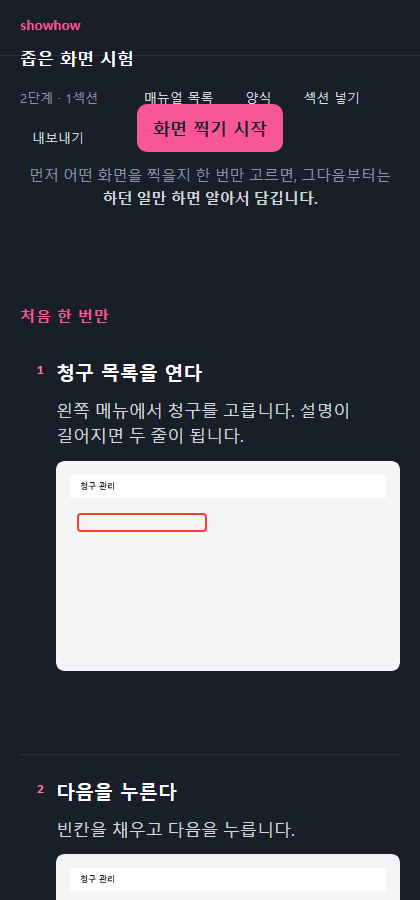
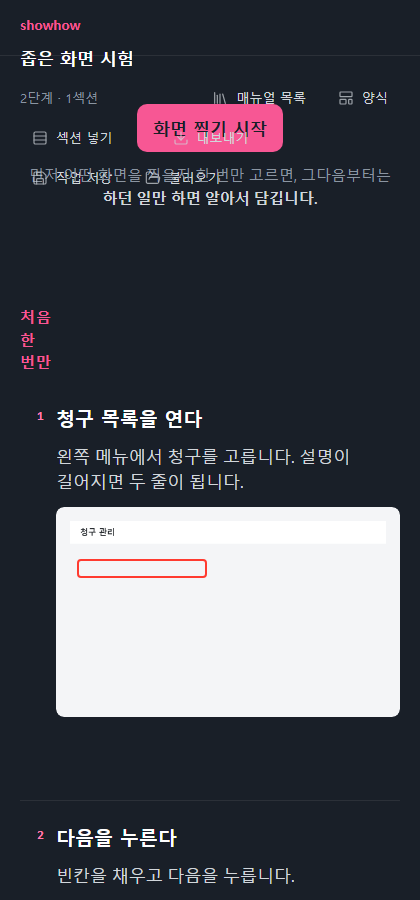
아이콘을 넣었다 — 새로 그리지 않고 가져왔다
lucide (ISC) 2,034개 중 38개만 골라 파일 안에 넣었다. 4.8KB.
우리 디자인 시스템이 선 아이콘(fill none · stroke-width 1.8)이라 결이 같다.

- 위쪽 단추 여섯 · 단계 손질 일곱 · 표시 도구 일곱 · 내보내기 여섯
- 아이콘이 붙어 도구줄이 두 줄로 밀렸다 → 시스템 .btn-sm(32px)으로 조이고,
  되돌리기·전부 지우기는 아이콘만 남겼다(뜻이 통하는 둘)
- 아이콘은 글자보다 흐리다(0.72) — 글자가 먼저 읽혀야 한다

3px 미세 조정을 넣었다가 검사에 걸려 세로 가운데 정렬로 바꿨다.
격자 밖 값을 못 쓰게 한 검사가 실제로 일했다.

diff --git a/index.html b/index.html
@@ -503,6 +503,14 @@
   #docname:hover { background: var(--colors-state-hover); }
   #docname:focus { background: var(--colors-state-hover); outline: 2px solid var(--colors-state-focused); outline-offset: 0; }
   #top .hint { color: var(--colors-label-assistive); font: var(--typography-7-regular); }
+  /* 아이콘은 글자 옆에 서고, 글자보다 흐리다 — 글자가 먼저 읽혀야 한다 */
+  .ico { flex: 0 0 auto; opacity: .72; }
+  button:hover .ico, button.on .ico { opacity: 1; }
+  .tbtn, .srow button, .sec button, .tool, #outmenu button, #boxbtns button, #formbtns button {
+    display: inline-flex; align-items: center; gap: var(--spacing-2);
+  }
+  
+  #outmenu .ico { align-self: center; }   /* 격자 밖 미세 조정 대신 세로 가운데로 */
   /* 아직 채울 것이 남았다는 신호. 경고가 아니라 다음 할 일이라 앰버 한 계단 아래로. */
   .warnlink {
     color: var(--colors-label-brand); font: var(--typography-7-medium);
@@ -531,13 +539,15 @@
     padding: var(--spacing-1); width: 304px; text-align: left;
   }
   #outmenu button {
-    display: block; width: 100%; text-align: left;
+    display: flex; align-items: flex-start; gap: var(--spacing-3);
+    width: 100%; text-align: left;
     padding: var(--spacing-2) var(--spacing-3); border-radius: var(--radius-sm);
     color: var(--colors-label-normal);
     transition: background var(--뜸) var(--결);
   }
   #outmenu button:hover { background: var(--colors-state-hover); }
   #outmenu b { display: block; font: var(--typography-6-medium); color: inherit; }
+  #outmenu span { min-width: 0; }
   #outmenu i {
     display: block; font-style: normal; margin-top: var(--spacing-1);
     font: var(--typography-caption-1-regular); color: var(--colors-label-assistive);
@@ -783,9 +793,15 @@
     border-radius: var(--radius-full); padding: var(--spacing-2) var(--spacing-5);
   }
   #mark-done:hover { background: var(--colors-primary-strong); color: var(--colors-label-inverse); }
+  /* 시스템 .btn-sm — 아이콘이 붙어 넓어졌으니 한 줄에 서게 조인다 */
   .tool {
-    color: var(--colors-label-neutral); font-size: var(--typography-6-size); padding: var(--spacing-2) var(--spacing-4); border-radius: var(--radius-md);
+    height: 32px; padding: 0 var(--spacing-3); border-radius: var(--radius-sm);
+    font: var(--typography-7-medium); color: var(--colors-label-neutral);
+    gap: var(--spacing-1);
   }
+  /* 아이콘만으로 뜻이 통하는 둘은 글자를 뺀다 — 줄이 넘치면 그게 더 나쁘다 */
+  .tool.icononly { width: 32px; padding: 0; justify-content: center; }
+  .tool.icononly .ico { opacity: .85; }
   .tool:hover { color: var(--colors-label-normal); background: var(--colors-layered-background); }
   .tool.on { color: var(--colors-label-inverse); background: var(--colors-primary-normal); font-weight: 600; }
   #markwrap { flex: 1; display: grid; place-items: center; padding: 0 var(--spacing-8) var(--spacing-5); min-height: 0; }
@@ -871,24 +887,24 @@
   <input id="docname" value="새 매뉴얼" aria-label="매뉴얼 이름">
   <span class="hint" id="counthint"></span>
   <span class="grow"></span>
-  <button class="tbtn" id="btn-box">매뉴얼 목록</button>
-  <button class="tbtn" id="btn-form">양식</button>
-  <button class="tbtn" id="btn-sec">섹션 넣기</button>
+  <button class="tbtn" id="btn-box"><svg class="ico" width="16" height="16" viewBox="0 0 24 24" fill="none" stroke="currentColor" stroke-width="1.8" stroke-linecap="round" stroke-linejoin="round" aria-hidden="true"><path d="m16 6 4 14" /> <path d="M12 6v14" /> <path d="M8 8v12" /> <path d="M4 4v16" /></svg>매뉴얼 목록</button>
+  <button class="tbtn" id="btn-form"><svg class="ico" width="16" height="16" viewBox="0 0 24 24" fill="none" stroke="currentColor" stroke-width="1.8" stroke-linecap="round" stroke-linejoin="round" aria-hidden="true"><rect width="18" height="7" x="3" y="3" rx="1" /> <rect width="9" height="7" x="3" y="14" rx="1" /> <rect width="5" height="7" x="16" y="14" rx="1" /></svg>양식</button>
+  <button class="tbtn" id="btn-sec"><svg class="ico" width="16" height="16" viewBox="0 0 24 24" fill="none" stroke="currentColor" stroke-width="1.8" stroke-linecap="round" stroke-linejoin="round" aria-hidden="true"><rect width="18" height="18" x="3" y="3" rx="2" /> <path d="M21 9H3" /> <path d="M21 15H3" /></svg>섹션 넣기</button>
   <span class="tgap"></span>
   <span class="menuwrap">
-    <button class="tbtn" id="btn-out" aria-haspopup="true" aria-expanded="false">내보내기</button>
+    <button class="tbtn" id="btn-out" aria-haspopup="true" aria-expanded="false"><svg class="ico" width="16" height="16" viewBox="0 0 24 24" fill="none" stroke="currentColor" stroke-width="1.8" stroke-linecap="round" stroke-linejoin="round" aria-hidden="true"><path d="M12 15V3" /> <path d="M21 15v4a2 2 0 0 1-2 2H5a2 2 0 0 1-2-2v-4" /> <path d="m7 10 5 5 5-5" /></svg>내보내기</button>
     <div id="outmenu" hidden>
-      <button data-out="print"><b>PDF로 저장</b><i>종이로 뽑거나, 어디서나 똑같이 보일 때</i></button>
-      <button data-out="ppt"><b>PPT로 저장</b><i>발표하거나, 받는 사람이 고쳐 쓰게 할 때</i></button>
-      <button data-out="docx"><b>워드로 저장</b><i>사내 문서 양식에 맞춰 이어 쓸 때 (한글에서도 열림)</i></button>
-      <button data-out="html"><b>파일 한 장으로</b><i>두 번 눌러 바로 열게, 프로그램 없이 보낼 때</i></button>
-      <button data-out="imgs"><b>사진 원본만</b><i>다른 문서에 사진만 붙여 넣을 때</i></button>
-      <button data-out="md"><b>글과 그림으로</b><i>위키·깃헙·노션에 옮겨 붙일 때</i></button>
+      <button data-out="print"><svg class="ico" width="18" height="18" viewBox="0 0 24 24" fill="none" stroke="currentColor" stroke-width="1.8" stroke-linecap="round" stroke-linejoin="round" aria-hidden="true"><path d="M6 22a2 2 0 0 1-2-2V4a2 2 0 0 1 2-2h8a2.4 2.4 0 0 1 1.704.706l3.588 3.588A2.4 2.4 0 0 1 20 8v12a2 2 0 0 1-2 2z" /> <path d="M14 2v5a1 1 0 0 0 1 1h5" /> <path d="M10 9H8" /> <path d="M16 13H8" /> <path d="M16 17H8" /></svg><span><b>PDF로 저장</b><i>종이로 뽑거나, 어디서나 똑같이 보일 때</i></span></button>
+      <button data-out="ppt"><svg class="ico" width="18" height="18" viewBox="0 0 24 24" fill="none" stroke="currentColor" stroke-width="1.8" stroke-linecap="round" stroke-linejoin="round" aria-hidden="true"><path d="M2 3h20" /> <path d="M21 3v11a2 2 0 0 1-2 2H5a2 2 0 0 1-2-2V3" /> <path d="m7 21 5-5 5 5" /></svg><span><b>PPT로 저장</b><i>발표하거나, 받는 사람이 고쳐 쓰게 할 때</i></span></button>
+      <button data-out="docx"><svg class="ico" width="18" height="18" viewBox="0 0 24 24" fill="none" stroke="currentColor" stroke-width="1.8" stroke-linecap="round" stroke-linejoin="round" aria-hidden="true"><path d="M12 22h6a2 2 0 0 0 2-2V8a2.4 2.4 0 0 0-.706-1.706l-3.588-3.588A2.4 2.4 0 0 0 14 2H6a2 2 0 0 0-2 2v6" /> <path d="M14 2v5a1 1 0 0 0 1 1h5" /> <path d="M3 16v-1.5a.5.5 0 0 1 .5-.5h7a.5.5 0 0 1 .5.5V16" /> <path d="M6 22h2" /> <path d="M7 14v8" /></svg><span><b>워드로 저장</b><i>사내 문서 양식에 맞춰 이어 쓸 때 (한글에서도 열림)</i></span></button>
+      <button data-out="html"><svg class="ico" width="18" height="18" viewBox="0 0 24 24" fill="none" stroke="currentColor" stroke-width="1.8" stroke-linecap="round" stroke-linejoin="round" aria-hidden="true"><path d="M4 12.15V4a2 2 0 0 1 2-2h8a2.4 2.4 0 0 1 1.706.706l3.588 3.588A2.4 2.4 0 0 1 20 8v12a2 2 0 0 1-2 2h-3.35" /> <path d="M14 2v5a1 1 0 0 0 1 1h5" /> <path d="m5 16-3 3 3 3" /> <path d="m9 22 3-3-3-3" /></svg><span><b>파일 한 장으로</b><i>두 번 눌러 바로 열게, 프로그램 없이 보낼 때</i></span></button>
+      <button data-out="imgs"><svg class="ico" width="18" height="18" viewBox="0 0 24 24" fill="none" stroke="currentColor" stroke-width="1.8" stroke-linecap="round" stroke-linejoin="round" aria-hidden="true"><path d="m22 11-1.296-1.296a2.4 2.4 0 0 0-3.408 0L11 16" /> <path d="M4 8a2 2 0 0 0-2 2v10a2 2 0 0 0 2 2h10a2 2 0 0 0 2-2" /> <circle cx="13" cy="7" r="1" fill="currentColor" /> <rect x="8" y="2" width="14" height="14" rx="2" /></svg><span><b>사진 원본만</b><i>다른 문서에 사진만 붙여 넣을 때</i></span></button>
+      <button data-out="md"><svg class="ico" width="18" height="18" viewBox="0 0 24 24" fill="none" stroke="currentColor" stroke-width="1.8" stroke-linecap="round" stroke-linejoin="round" aria-hidden="true"><line x1="4" x2="20" y1="9" y2="9" /> <line x1="4" x2="20" y1="15" y2="15" /> <line x1="10" x2="8" y1="3" y2="21" /> <line x1="16" x2="14" y1="3" y2="21" /></svg><span><b>글과 그림으로</b><i>위키·깃헙·노션에 옮겨 붙일 때</i></span></button>
     </div>
   </span>
   <span class="tgap"></span>
-  <button class="tbtn" id="btn-save">작업 저장</button>
-  <button class="tbtn" id="btn-open">불러오기</button>
+  <button class="tbtn" id="btn-save"><svg class="ico" width="16" height="16" viewBox="0 0 24 24" fill="none" stroke="currentColor" stroke-width="1.8" stroke-linecap="round" stroke-linejoin="round" aria-hidden="true"><path d="M15.2 3a2 2 0 0 1 1.4.6l3.8 3.8a2 2 0 0 1 .6 1.4V19a2 2 0 0 1-2 2H5a2 2 0 0 1-2-2V5a2 2 0 0 1 2-2z" /> <path d="M17 21v-7a1 1 0 0 0-1-1H8a1 1 0 0 0-1 1v7" /> <path d="M7 3v4a1 1 0 0 0 1 1h7" /></svg>작업 저장</button>
+  <button class="tbtn" id="btn-open"><svg class="ico" width="16" height="16" viewBox="0 0 24 24" fill="none" stroke="currentColor" stroke-width="1.8" stroke-linecap="round" stroke-linejoin="round" aria-hidden="true"><path d="m6 14 1.5-2.9A2 2 0 0 1 9.24 10H20a2 2 0 0 1 1.94 2.5l-1.54 6a2 2 0 0 1-1.95 1.5H4a2 2 0 0 1-2-2V5a2 2 0 0 1 2-2h3.9a2 2 0 0 1 1.69.9l.81 1.2a2 2 0 0 0 1.67.9H18a2 2 0 0 1 2 2v2" /></svg>불러오기</button>
 </div>
 
 <div id="cover">
@@ -991,20 +1007,20 @@
 
 <div id="mark">
   <div id="marktop">
-    <button class="tool" data-tool="box">상자</button>
-    <button class="tool" data-tool="arrow">화살표</button>
-    <button class="tool" data-tool="badge">번호</button>
-    <button class="tool" data-tool="blur">가리기</button>
-    <button class="tool" data-tool="text">글자</button>
-    <button class="tool" data-tool="crop">자르기</button>
-    <button class="tool" data-tool="erase">지우개</button>
+    <button class="tool" data-tool="box"><svg class="ico" width="15" height="15" viewBox="0 0 24 24" fill="none" stroke="currentColor" stroke-width="1.8" stroke-linecap="round" stroke-linejoin="round" aria-hidden="true"><rect width="18" height="18" x="3" y="3" rx="2" /></svg>상자</button>
+    <button class="tool" data-tool="arrow"><svg class="ico" width="15" height="15" viewBox="0 0 24 24" fill="none" stroke="currentColor" stroke-width="1.8" stroke-linecap="round" stroke-linejoin="round" aria-hidden="true"><path d="M13 5H19V11" /> <path d="M19 5L5 19" /></svg>화살표</button>
+    <button class="tool" data-tool="badge"><svg class="ico" width="15" height="15" viewBox="0 0 24 24" fill="none" stroke="currentColor" stroke-width="1.8" stroke-linecap="round" stroke-linejoin="round" aria-hidden="true"><circle cx="12" cy="12" r="10" /> <circle cx="12" cy="12" r="1" /></svg>번호</button>
+    <button class="tool" data-tool="blur"><svg class="ico" width="15" height="15" viewBox="0 0 24 24" fill="none" stroke="currentColor" stroke-width="1.8" stroke-linecap="round" stroke-linejoin="round" aria-hidden="true"><rect width="18" height="18" x="3" y="3" rx="2" /> <line x1="9" x2="15" y1="15" y2="9" /></svg>가리기</button>
+    <button class="tool" data-tool="text"><svg class="ico" width="15" height="15" viewBox="0 0 24 24" fill="none" stroke="currentColor" stroke-width="1.8" stroke-linecap="round" stroke-linejoin="round" aria-hidden="true"><path d="M12 4v16" /> <path d="M4 7V5a1 1 0 0 1 1-1h14a1 1 0 0 1 1 1v2" /> <path d="M9 20h6" /></svg>글자</button>
+    <button class="tool" data-tool="crop"><svg class="ico" width="15" height="15" viewBox="0 0 24 24" fill="none" stroke="currentColor" stroke-width="1.8" stroke-linecap="round" stroke-linejoin="round" aria-hidden="true"><path d="M6 2v14a2 2 0 0 0 2 2h14" /> <path d="M18 22V8a2 2 0 0 0-2-2H2" /></svg>자르기</button>
+    <button class="tool" data-tool="erase"><svg class="ico" width="15" height="15" viewBox="0 0 24 24" fill="none" stroke="currentColor" stroke-width="1.8" stroke-linecap="round" stroke-linejoin="round" aria-hidden="true"><path d="M21 21H8a2 2 0 0 1-1.42-.587l-3.994-3.999a2 2 0 0 1 0-2.828l10-10a2 2 0 0 1 2.829 0l5.999 6a2 2 0 0 1 0 2.828L12.834 21" /> <path d="m5.082 11.09 8.828 8.828" /></svg>지우개</button>
     <span class="mgap"></span>
     <span id="markcolors" role="group" aria-label="색"></span>
     <button class="tool" id="mark-thin" title="선 굵기">굵기 보통</button>
     <span class="grow"></span>
-    <button class="tool" id="mark-undo">되돌리기</button>
-    <button class="tool" id="mark-clear">전부 지우기</button>
-    <button class="tool" id="mark-done">다 했어요</button>
+    <button class="tool icononly" id="mark-undo" title="되돌리기" aria-label="되돌리기"><svg class="ico" width="15" height="15" viewBox="0 0 24 24" fill="none" stroke="currentColor" stroke-width="1.8" stroke-linecap="round" stroke-linejoin="round" aria-hidden="true"><path d="M9 14 4 9l5-5" /> <path d="M4 9h10.5a5.5 5.5 0 0 1 5.5 5.5a5.5 5.5 0 0 1-5.5 5.5H11" /></svg></button>
+    <button class="tool icononly" id="mark-clear" title="전부 지우기" aria-label="전부 지우기"><svg class="ico" width="15" height="15" viewBox="0 0 24 24" fill="none" stroke="currentColor" stroke-width="1.8" stroke-linecap="round" stroke-linejoin="round" aria-hidden="true"><path d="M18 6 6 18" /> <path d="m6 6 12 12" /></svg></button>
+    <button class="tool" id="mark-done"><svg class="ico" width="16" height="16" viewBox="0 0 24 24" fill="none" stroke="currentColor" stroke-width="1.8" stroke-linecap="round" stroke-linejoin="round" aria-hidden="true"><path d="M20 6 9 17l-5-5" /></svg>다 했어요</button>
   </div>
   <div id="markhint">사진 위에서 끌면 그려집니다. 번호는 누른 자리에 붙습니다.</div>
   <div id="markwrap"><canvas id="markcv"></canvas></div>
@@ -1404,8 +1420,10 @@ function render() {
       h.draggable = true;
       h.innerHTML =
         '<div class="sectitle" contenteditable="plaintext-only" data-ph="섹션 이름 (예: 처음 설정하기)"></div>' +
-        '<button data-act="skip" class="' + (s.off ? 'off' : '') + '">' + (s.off ? '다시 넣기' : '이번엔 빼기') + '</button>' +
-        '<button data-act="up">위로</button><button data-act="down">아래로</button><button data-act="del">삭제</button>';
+        '<button data-act="skip" class="' + (s.off ? 'off' : '') + '">' + (s.off ? 아이콘("넣기", 15) + '다시 넣기' : 아이콘("빼기", 15) + '이번엔 빼기') + '</button>' +
+        '<button data-act="up">' + 아이콘("위로", 15) + '위로</button>' +
+        '<button data-act="down">' + 아이콘("아래로", 15) + '아래로</button>' +
+        '<button data-act="del">' + 아이콘("삭제", 15) + '삭제</button>';
       const ti = h.querySelector(".sectitle");
       ti.textContent = s.title; setPh(ti);
       ti.addEventListener("input", () => { s.title = ti.textContent; setPh(ti); save(); });
@@ -1430,13 +1448,13 @@ function render() {
         ((s.extra || []).map((_, k) => '<div class="shot extra"><img alt="' +
             esc(n + "번째 단계 화면 " + (k + 2)) + '"></div>').join("")) +
         '<div class="srow">' +
-          '<button data-act="mark">표시하기</button>' +
-          '<button data-act="merge">위와 합치기</button>' +
-          '<button data-act="split">둘로 나누기</button>' +
-          '<button data-act="copy">복제</button>' +
-          '<button data-act="up">위로</button>' +
-          '<button data-act="down">아래로</button>' +
-          '<button data-act="del">삭제</button>' +
+          '<button data-act="mark">' + 아이콘("표시", 15) + '표시하기</button>' +
+          '<button data-act="merge">' + 아이콘("합치기", 15) + '위와 합치기</button>' +
+          '<button data-act="split">' + 아이콘("나누기", 15) + '둘로 나누기</button>' +
+          '<button data-act="copy">' + 아이콘("복제", 15) + '복제</button>' +
+          '<button data-act="up">' + 아이콘("위로", 15) + '위로</button>' +
+          '<button data-act="down">' + 아이콘("아래로", 15) + '아래로</button>' +
+          '<button data-act="del">' + 아이콘("삭제", 15) + '삭제</button>' +
         '</div>' +
       '</div>';
     const t = el.querySelector(".stitle"), d = el.querySelector(".sdesc");
@@ -2509,6 +2527,19 @@ function exportHTML() {
 
   download(new Blob([html], { type: "text/html" }), (state.name || "매뉴얼") + ".html");
   say("파일 하나로 내보냈습니다 — 받는 사람은 두 번 눌러 열면 됩니다");
+}
+
+/* ── 아이콘 ─────────────────────────────────────────────────────
+   새로 그리지 않았다. lucide (ISC) 에서 필요한 것만 가져왔다.
+   우리 디자인 시스템이 선 아이콘(fill none · stroke-width 1.8)이라 결이 같다. */
+const ICON = {"목록":"<path d=\"m16 6 4 14\" /> <path d=\"M12 6v14\" /> <path d=\"M8 8v12\" /> <path d=\"M4 4v16\" />","양식":"<rect width=\"18\" height=\"7\" x=\"3\" y=\"3\" rx=\"1\" /> <rect width=\"9\" height=\"7\" x=\"3\" y=\"14\" rx=\"1\" /> <rect width=\"5\" height=\"7\" x=\"16\" y=\"14\" rx=\"1\" />","섹션":"<rect width=\"18\" height=\"18\" x=\"3\" y=\"3\" rx=\"2\" /> <path d=\"M21 9H3\" /> <path d=\"M21 15H3\" />","내보내기":"<path d=\"M12 15V3\" /> <path d=\"M21 15v4a2 2 0 0 1-2 2H5a2 2 0 0 1-2-2v-4\" /> <path d=\"m7 10 5 5 5-5\" />","저장":"<path d=\"M15.2 3a2 2 0 0 1 1.4.6l3.8 3.8a2 2 0 0 1 .6 1.4V19a2 2 0 0 1-2 2H5a2 2 0 0 1-2-2V5a2 2 0 0 1 2-2z\" /> <path d=\"M17 21v-7a1 1 0 0 0-1-1H8a1 1 0 0 0-1 1v7\" /> <path d=\"M7 3v4a1 1 0 0 0 1 1h7\" />","불러오기":"<path d=\"m6 14 1.5-2.9A2 2 0 0 1 9.24 10H20a2 2 0 0 1 1.94 2.5l-1.54 6a2 2 0 0 1-1.95 1.5H4a2 2 0 0 1-2-2V5a2 2 0 0 1 2-2h3.9a2 2 0 0 1 1.69.9l.81 1.2a2 2 0 0 0 1.67.9H18a2 2 0 0 1 2 2v2\" />","표시":"<path d=\"m9 11-6 6v3h9l3-3\" /> <path d=\"m22 12-4.6 4.6a2 2 0 0 1-2.8 0l-5.2-5.2a2 2 0 0 1 0-2.8L14 4\" />","합치기":"<path d=\"m8 6 4-4 4 4\" /> <path d=\"M12 2v10.3a4 4 0 0 1-1.172 2.872L4 22\" /> <path d=\"m20 22-5-5\" />","나누기":"<path d=\"M16 3h5v5\" /> <path d=\"M8 3H3v5\" /> <path d=\"M12 22v-8.3a4 4 0 0 0-1.172-2.872L3 3\" /> <path d=\"m15 9 6-6\" />","복제":"<rect width=\"14\" height=\"14\" x=\"8\" y=\"8\" rx=\"2\" ry=\"2\" /> <path d=\"M4 16c-1.1 0-2-.9-2-2V4c0-1.1.9-2 2-2h10c1.1 0 2 .9 2 2\" />","위로":"<path d=\"m5 12 7-7 7 7\" /> <path d=\"M12 19V5\" />","아래로":"<path d=\"M12 5v14\" /> <path d=\"m19 12-7 7-7-7\" />","삭제":"<path d=\"M10 11v6\" /> <path d=\"M14 11v6\" /> <path d=\"M19 6v14a2 2 0 0 1-2 2H7a2 2 0 0 1-2-2V6\" /> <path d=\"M3 6h18\" /> <path d=\"M8 6V4a2 2 0 0 1 2-2h4a2 2 0 0 1 2 2v2\" />","빼기":"<path d=\"M10.733 5.076a10.744 10.744 0 0 1 11.205 6.575 1 1 0 0 1 0 .696 10.747 10.747 0 0 1-1.444 2.49\" /> <path d=\"M14.084 14.158a3 3 0 0 1-4.242-4.242\" /> <path d=\"M17.479 17.499a10.75 10.75 0 0 1-15.417-5.151 1 1 0 0 1 0-.696 10.75 10.75 0 0 1 4.446-5.143\" /> <path d=\"m2 2 20 20\" />","넣기":"<path d=\"M2.062 12.348a1 1 0 0 1 0-.696 10.75 10.75 0 0 1 19.876 0 1 1 0 0 1 0 .696 10.75 10.75 0 0 1-19.876 0\" /> <circle cx=\"12\" cy=\"12\" r=\"3\" />","상자":"<rect width=\"18\" height=\"18\" x=\"3\" y=\"3\" rx=\"2\" />","화살표":"<path d=\"M13 5H19V11\" /> <path d=\"M19 5L5 19\" />","번호":"<circle cx=\"12\" cy=\"12\" r=\"10\" /> <circle cx=\"12\" cy=\"12\" r=\"1\" />","가리기":"<rect width=\"18\" height=\"18\" x=\"3\" y=\"3\" rx=\"2\" /> <line x1=\"9\" x2=\"15\" y1=\"15\" y2=\"9\" />","글자":"<path d=\"M12 4v16\" /> <path d=\"M4 7V5a1 1 0 0 1 1-1h14a1 1 0 0 1 1 1v2\" /> <path d=\"M9 20h6\" />","자르기":"<path d=\"M6 2v14a2 2 0 0 0 2 2h14\" /> <path d=\"M18 22V8a2 2 0 0 0-2-2H2\" />","지우개":"<path d=\"M21 21H8a2 2 0 0 1-1.42-.587l-3.994-3.999a2 2 0 0 1 0-2.828l10-10a2 2 0 0 1 2.829 0l5.999 6a2 2 0 0 1 0 2.828L12.834 21\" /> <path d=\"m5.082 11.09 8.828 8.828\" />","되돌리기":"<path d=\"M9 14 4 9l5-5\" /> <path d=\"M4 9h10.5a5.5 5.5 0 0 1 5.5 5.5a5.5 5.5 0 0 1-5.5 5.5H11\" />","전부지우기":"<path d=\"M18 6 6 18\" /> <path d=\"m6 6 12 12\" />","다했어요":"<path d=\"M20 6 9 17l-5-5\" />","찍기":"<circle cx=\"12\" cy=\"12\" r=\"10\" />","멈춤":"<rect x=\"14\" y=\"3\" width=\"5\" height=\"18\" rx=\"1\" /> <rect x=\"5\" y=\"3\" width=\"5\" height=\"18\" rx=\"1\" />","다시":"<path d=\"M5 5a2 2 0 0 1 3.008-1.728l11.997 6.998a2 2 0 0 1 .003 3.458l-12 7A2 2 0 0 1 5 19z\" />","되감기":"<path d=\"M3 12a9 9 0 1 0 9-9 9.75 9.75 0 0 0-6.74 2.74L3 8\" /> <path d=\"M3 3v5h5\" /> <path d=\"M12 7v5l4 2\" />","PDF":"<path d=\"M6 22a2 2 0 0 1-2-2V4a2 2 0 0 1 2-2h8a2.4 2.4 0 0 1 1.704.706l3.588 3.588A2.4 2.4 0 0 1 20 8v12a2 2 0 0 1-2 2z\" /> <path d=\"M14 2v5a1 1 0 0 0 1 1h5\" /> <path d=\"M10 9H8\" /> <path d=\"M16 13H8\" /> <path d=\"M16 17H8\" />","PPT":"<path d=\"M2 3h20\" /> <path d=\"M21 3v11a2 2 0 0 1-2 2H5a2 2 0 0 1-2-2V3\" /> <path d=\"m7 21 5-5 5 5\" />","워드":"<path d=\"M12 22h6a2 2 0 0 0 2-2V8a2.4 2.4 0 0 0-.706-1.706l-3.588-3.588A2.4 2.4 0 0 0 14 2H6a2 2 0 0 0-2 2v6\" /> <path d=\"M14 2v5a1 1 0 0 0 1 1h5\" /> <path d=\"M3 16v-1.5a.5.5 0 0 1 .5-.5h7a.5.5 0 0 1 .5.5V16\" /> <path d=\"M6 22h2\" /> <path d=\"M7 14v8\" />","한장":"<path d=\"M4 12.15V4a2 2 0 0 1 2-2h8a2.4 2.4 0 0 1 1.706.706l3.588 3.588A2.4 2.4 0 0 1 20 8v12a2 2 0 0 1-2 2h-3.35\" /> <path d=\"M14 2v5a1 1 0 0 0 1 1h5\" /> <path d=\"m5 16-3 3 3 3\" /> <path d=\"m9 22 3-3-3-3\" />","사진":"<path d=\"m22 11-1.296-1.296a2.4 2.4 0 0 0-3.408 0L11 16\" /> <path d=\"M4 8a2 2 0 0 0-2 2v10a2 2 0 0 0 2 2h10a2 2 0 0 0 2-2\" /> <circle cx=\"13\" cy=\"7\" r=\"1\" fill=\"currentColor\" /> <rect x=\"8\" y=\"2\" width=\"14\" height=\"14\" rx=\"2\" />","글그림":"<line x1=\"4\" x2=\"20\" y1=\"9\" y2=\"9\" /> <line x1=\"4\" x2=\"20\" y1=\"15\" y2=\"15\" /> <line x1=\"10\" x2=\"8\" y1=\"3\" y2=\"21\" /> <line x1=\"16\" x2=\"14\" y1=\"3\" y2=\"21\" />","닫기":"<path d=\"M18 6 6 18\" /> <path d=\"m6 6 12 12\" />","끌기":"<circle cx=\"9\" cy=\"12\" r=\"1\" /> <circle cx=\"9\" cy=\"5\" r=\"1\" /> <circle cx=\"9\" cy=\"19\" r=\"1\" /> <circle cx=\"15\" cy=\"12\" r=\"1\" /> <circle cx=\"15\" cy=\"5\" r=\"1\" /> <circle cx=\"15\" cy=\"19\" r=\"1\" />","제목자동":"<path d=\"m21.64 3.64-1.28-1.28a1.21 1.21 0 0 0-1.72 0L2.36 18.64a1.21 1.21 0 0 0 0 1.72l1.28 1.28a1.2 1.2 0 0 0 1.72 0L21.64 5.36a1.2 1.2 0 0 0 0-1.72\" /> <path d=\"m14 7 3 3\" /> <path d=\"M5 6v4\" /> <path d=\"M19 14v4\" /> <path d=\"M10 2v2\" /> <path d=\"M7 8H3\" /> <path d=\"M21 16h-4\" /> <path d=\"M11 3H9\" />"};
+function 아이콘(이름, 크기) {
+  const d = ICON[이름];
+  if (!d) return "";
+  const n = 크기 || 18;
+  return '<svg class="ico" width="' + n + '" height="' + n + '" viewBox="0 0 24 24" ' +
+         'fill="none" stroke="currentColor" stroke-width="1.8" stroke-linecap="round" ' +
+         'stroke-linejoin="round" aria-hidden="true">' + d + '</svg>';
 }
 
 /* ── 단계 글 자동 작성 ────────────────────────────────────────────

diff --git a/README.md b/README.md
@@ -171,7 +171,13 @@ node tests/검사_전부.mjs        # 전부 357건
 
 `index.html` 한 파일에 전부 들어 있습니다. 빌드 도구를 쓰지 않으니 열어서 고치고 브라우저에서 새로 고치면 됩니다.
 
-바깥에서 가져온 것은 하나뿐입니다 — 글자 읽기(`ocr/`, [Tesseract](https://github.com/naptha/tesseract.js), Apache-2.0). 인터넷으로 부르지 않고 저장소 안에 넣어 두었습니다.
+바깥에서 가져온 것은 셋입니다. 전부 저장소 안에 넣어 두어 인터넷으로 부르지 않습니다.
+
+| 무엇 | 어디서 | 라이선스 |
+|---|---|---|
+| 화면 값(색·글자·간격·모서리) | 마이크림 디자인 시스템 | 사내 |
+| 아이콘 38개 | [Lucide](https://lucide.dev) 2,034개 중 골라서 | ISC |
+| 글자 읽기 (`ocr/`) | [Tesseract](https://github.com/naptha/tesseract.js) | Apache-2.0 |
 
 <details>
 <summary>안에 무엇이 들어 있나</summary>
